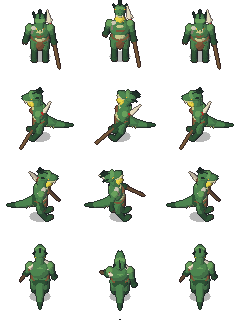
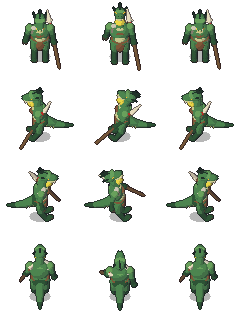
Keep every creature inside its own frame
The engine draws exactly one cell of a sheet, so a pose that crosses a cell's
edge is cut off in its own frame and leaves a scrap in the frame next door.
keep_in_cell measures each posed rig in the camera's screen axes and slides it
back inside by just enough; a rig that already fits is not touched. The
Warchief, a head taller than the other orcs, also stands lower in his frame
(FRAME_DROP), into the empty strip every rig has under its feet.

Three poses were wrong rather than merely too big, and sliding them back would
have hidden that:

- The four-legged deaths roll onto their side, which is right, but facing right
  they rolled away from the camera and ended up legs in the air, balanced on
  their backs. _roll_to_camera turns the two side rows over the other way.
- The bat rolled as it dropped. Side on that stood its wings up the screen and
  it never reached its shadow; it drops and lies where it falls now.
- A lizardman's thrust at full reach was longer than an 80px cell is tall in
  the rows facing towards or away from the camera, so no amount of sliding fit
  both ends. The spear goes out level with the shoulder instead.

Changed region(s): [[0.4083, 0.0, 0.5833, 0.2188]]

diff --git a/tools/blender_creatures.py b/tools/blender_creatures.py
@@ -225,8 +225,18 @@ class Rig:
             add = values.get(name, (0, 0, 0))
             e.rotation_euler = Euler(tuple(math.radians(base[i] * f + add[i]) for i in range(3)), "XYZ")
         self.pose.location = (values.get("_x", 0.0), values.get("_y", 0.0), values.get("_z", 0.0))
+        roll = values.get("_roll", 0.0)
+        if values.get("_roll_to_camera") and abs(math.sin(math.radians(turn))) > 0.5:
+            # A four-legged animal goes down onto its side, which is a roll
+            # about its own spine -- the right axis for it, unlike a humanoid's
+            # fall. But which side it lands on decides where its legs point.
+            # Side on, legs rolled away from the camera stand straight up the
+            # screen and the carcass reads as a deer balanced on its back; rolled
+            # towards the camera they lie down the screen under it. Facing down
+            # or up either side is fine, so only the two side rows are turned.
+            roll = -math.copysign(abs(roll), math.sin(math.radians(turn)))
         self.pose.rotation_euler = Euler((math.radians(values.get("_pitch", 0.0)),
-                                          math.radians(values.get("_roll", 0.0)), 0.0), "XYZ")
+                                          math.radians(roll), 0.0), "XYZ")
         # _pitch and _roll above are in the creature's own frame, which is what
         # a lean or a flinch wants. A fall is not: a body that tips over its own
         # backwards axis topples away from the camera in the row where it faced
@@ -657,7 +667,11 @@ def liz_attack(t):
     rest = {"shoulder_r": fwd(6), "elbow_r": X(-14), "hand_r": X(4)}
     draw = {"shoulder_r": fwd(-30), "elbow_r": X(-100), "hand_r": X(100), "chest": X(-8), "_y": 0.06,
             "hip_l": fwd(20), "hip_r": fwd(-15), "tail1": (0, 0, -14)}
-    thrust = {"shoulder_r": fwd(85), "elbow_r": X(-5), "hand_r": X(95), "chest": X(22), "_y": -0.26,
+    # The spear goes out level with the shoulder rather than raised to it: at
+    # full reach, pointing straight down the facing, it was longer than an 80px
+    # cell is tall in the rows where that facing is towards or away from the
+    # camera, and no amount of sliding it about kept both ends inside.
+    thrust = {"shoulder_r": fwd(62), "elbow_r": X(-5), "hand_r": X(70), "chest": X(16), "_y": -0.20,
               "hip_l": fwd(40), "hip_r": fwd(-30), "knee_r": X(20), "tail1": (-10, 0, 14)}
     return [mix(rest, draw, k), mix(draw, thrust, k), mix(thrust, rest, k), rest][i]
 
@@ -1572,9 +1586,14 @@ def bat_hurt(t):
 
 
 def bat_death(t):
+    # It drops out of the air and lies where it lands, wings half spread. It
+    # used to roll onto its side on the way down, which is a roll about its own
+    # spine: facing the camera that turned its wings flat, but side on it stood
+    # them straight up the screen, and the bat hung in the air a full wingspan
+    # tall and never seemed to land at all.
     k = ease(t)
-    return {"_z": -0.58 * k, "_roll": 90 * k, "body": X(20 * k),
-            "wing_l": (0, -20 * k, 0), "wing_r": (0, 20 * k, 0)}
+    return {"_z": -0.58 * k, "body": X(20 * k),
+            "wing_l": (0, -35 * k, 0), "wing_r": (0, 35 * k, 0)}
 
 
 def build_hound():
@@ -1898,7 +1917,7 @@ def boar_hurt(t):
 
 def boar_death(t):
     k = ease(t * 1.1)
-    return {"_roll": 76 * k, "_z": -0.22 * k, "neck": X(24 * k), "head": X(18 * k),
+    return {"_roll_to_camera": True, "_roll": 76 * k, "_z": -0.22 * k, "neck": X(24 * k), "head": X(18 * k),
             "fore_l": fwd(30 * k), "hind_l": fwd(26 * k)}
 
 
@@ -1974,7 +1993,7 @@ def deer_hurt(t):
 
 def deer_death(t):
     k = ease(t)
-    return {"_roll": 80 * k, "_z": -0.34 * k, "neck": X(26 * k), "head": X(16 * k),
+    return {"_roll_to_camera": True, "_roll": 80 * k, "_z": -0.34 * k, "neck": X(26 * k), "head": X(16 * k),
             "fore_l": fwd(34 * k), "hind_l": fwd(30 * k), "fore_l_knee": X(30 * k)}
 
 
@@ -2040,7 +2059,7 @@ def fox_hurt(t):
 
 def fox_death(t):
     k = ease(t * 1.1)
-    return {"_roll": 78 * k, "_z": -0.18 * k, "neck": X(26 * k), "head": X(20 * k),
+    return {"_roll_to_camera": True, "_roll": 78 * k, "_z": -0.18 * k, "neck": X(26 * k), "head": X(20 * k),
             "fore_l": fwd(32 * k), "hind_l": fwd(28 * k), "tail1": (0, 0, 30 * k)}
 
 
@@ -2103,7 +2122,7 @@ def hare_hurt(t):
 
 def hare_death(t):
     k = ease(t * 1.1)
-    return {"_roll": 82 * k, "_z": -0.12 * k, "neck": X(22 * k), "head": X(16 * k),
+    return {"_roll_to_camera": True, "_roll": 82 * k, "_z": -0.12 * k, "neck": X(22 * k), "head": X(16 * k),
             "fore_l": fwd(28 * k), "haunch_l": X(-30 * k), "haunch_r": X(-30 * k)}
 
 
@@ -2291,9 +2310,74 @@ CLIP_FRAMES = [("idle", 4, True), ("walk", 6, True), ("attack", 6, False), ("hur
 # How far each one opens its walk up. A two-legged stride takes a lot of
 # stretching before it reads as a run; four legs do not -- at anything much
 # over a fifth the deer stops running and starts doing the splits.
+# Pixels to stand a creature lower in its frame than the rest. Every rig is
+# rendered with its feet about three quarters of the way down the cell, which
+# leaves a strip of empty frame under the feet and less over the head. The
+# Warchief is a head taller than the other orcs and his topknot reached past
+# the top of the cell in the side and back views -- a few pixels of him drawn
+# into the frame above, and cut off his own. Lowering him uses the empty strip
+# instead of making him smaller.
+FRAME_DROP = {"orc3": 8}
+
 RUNNERS = {"orc1": 1.45, "orc2": 1.45, "orc3": 1.40,
            "boar": 1.20, "deer": 1.18, "fox": 1.20, "hare": 1.20}
 FACINGS = bc.FACINGS
+
+
+def keep_in_cell(rig, cell, right, up, creature, clip, facing, col):
+    """Slide a posed rig back inside its cell if any of it has left.
+
+    The engine draws exactly one cell of a sheet, so anything posed across a
+    cell's edge is drawn twice: cut off in its own frame and as a scrap in the
+    frame next door. Most poses never come near an edge. The ones that did were
+    all the same kind of thing -- a four-legged animal rolled onto its side, a
+    bat dropping out of the air, a spear thrust at the camera -- where the pose
+    is right and only its position in the frame is wrong, and a pose authored
+    per creature cannot know which of the four facings it is being drawn in.
+
+    So this measures what was actually built, in the camera's own screen axes,
+    and moves the whole rig by just enough to bring it back in. Nothing that
+    already fits is touched, so every other sheet renders exactly as before; a
+    rig too big for its cell is centred rather than pushed off the other side,
+    and said so.
+    """
+    bpy.context.view_layer.update()
+    lo_x = lo_y = float("inf")
+    hi_x = hi_y = float("-inf")
+    for ob in rig.parts:
+        if ob.type != "MESH":
+            continue
+        m = ob.matrix_world
+        for v in ob.data.vertices:
+            w = m @ v.co
+            sx, sy = w.dot(right), w.dot(up)
+            lo_x, hi_x = min(lo_x, sx), max(hi_x, sx)
+            lo_y, hi_y = min(lo_y, sy), max(hi_y, sy)
+    if lo_x == float("inf"):
+        return
+    # The cell in the same screen axes. The camera sits a little over each
+    # cell's ground point (setup_camera's lift), so the cell's middle is that
+    # far up the screen from its grid position.
+    half = bc.FRAME_SPAN / 2.0
+    margin = UNITS_PER_PX * 2.0          # the outline pass adds a pixel
+    elev = math.radians(bc.CAMERA_ELEVATION)
+    cx = cell.dot(right)
+    cy = cell.dot(up) + bc.FRAME_SPAN * 0.30 * math.cos(elev)
+
+    def shift(lo, hi, centre):
+        lo_edge, hi_edge = centre - half + margin, centre + half - margin
+        if hi - lo > hi_edge - lo_edge:
+            print("  ! %s %s %s frame %d is bigger than its cell" % (creature, clip, facing, col))
+            return centre - (lo + hi) / 2.0
+        if lo < lo_edge:
+            return lo_edge - lo
+        if hi > hi_edge:
+            return hi_edge - hi
+        return 0.0
+
+    dx, dy = shift(lo_x, hi_x, cx), shift(lo_y, hi_y, cy)
+    if dx or dy:
+        rig.root.location = rig.root.location + right * dx + up * dy
 
 
 def build_sheet(creature, clip_index):
@@ -2316,11 +2400,14 @@ def build_sheet(creature, clip_index):
         for col in range(frames):
             t = col / float(frames) if loops else col / float(max(1, frames - 1))
             rig = builder()
-            offset = right * (bc.FRAME_SPAN * col) - up * (bc.FRAME_SPAN * row)
+            offset = (right * (bc.FRAME_SPAN * col) - up * (bc.FRAME_SPAN * row)
+                      - up * (UNITS_PER_PX * FRAME_DROP.get(creature, 0)))
             # apply() sets the root's rotation, turn included, so that a
             # world-space fall can sit outside the facing.
             rig.apply(pose_fn(t), turn)
             rig.root.location = offset + rig.fall
+            cell = right * (bc.FRAME_SPAN * col) - up * (bc.FRAME_SPAN * row)
+            keep_in_cell(rig, cell, right, up, creature, clip, facing, col)
             shadow = part("shadow", E(shadow_r, shadow_r * 0.7, 0.004), "shadow", None,
                           loc=offset + Vector((0, 0, 0.004)))
             bodies += rig.parts
